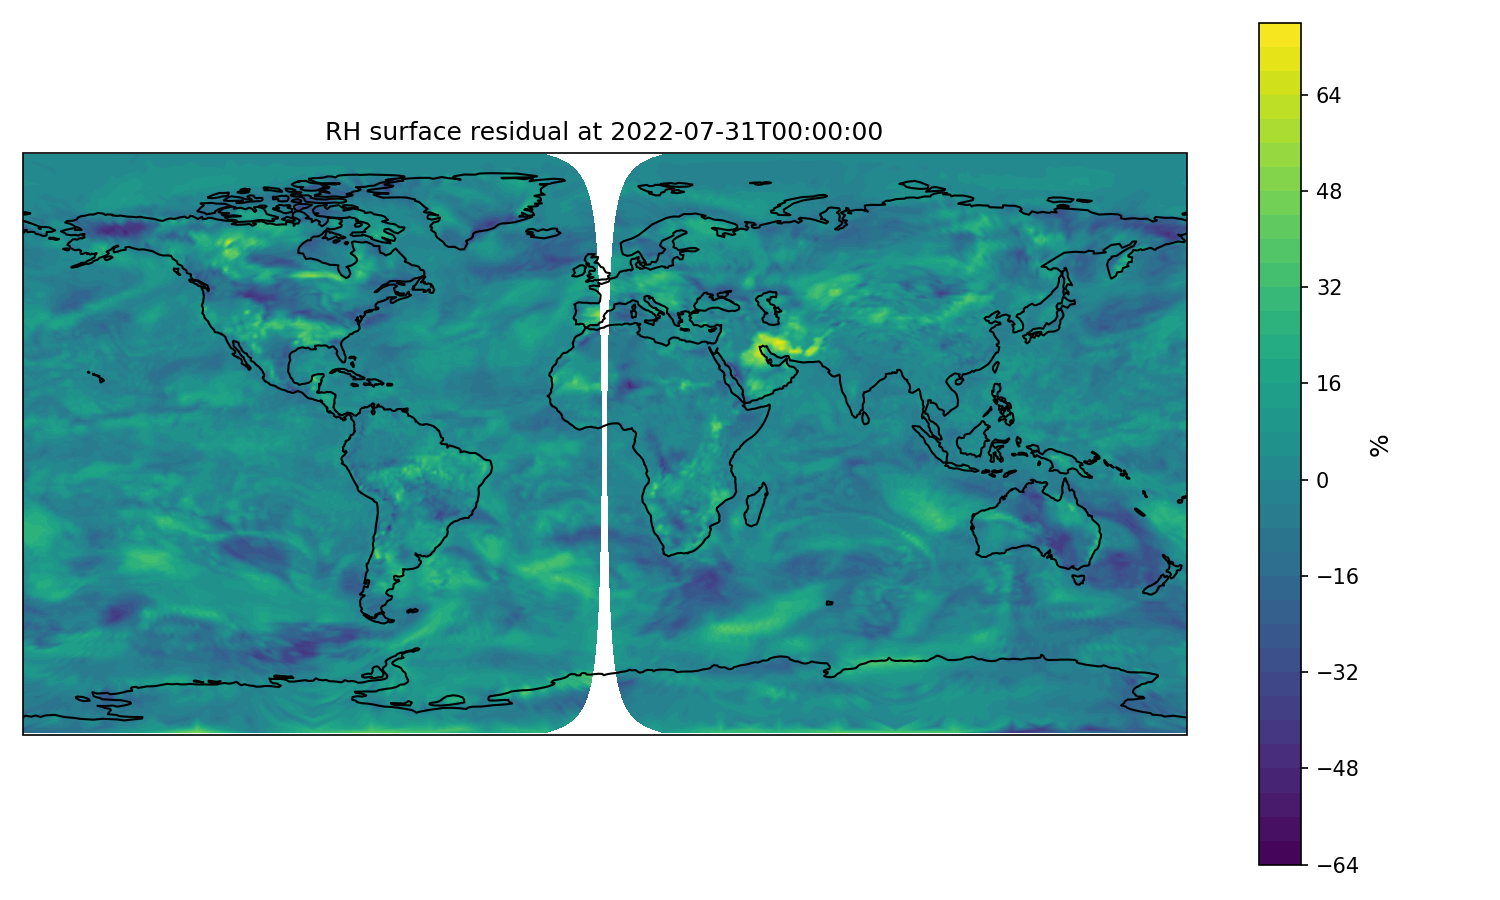
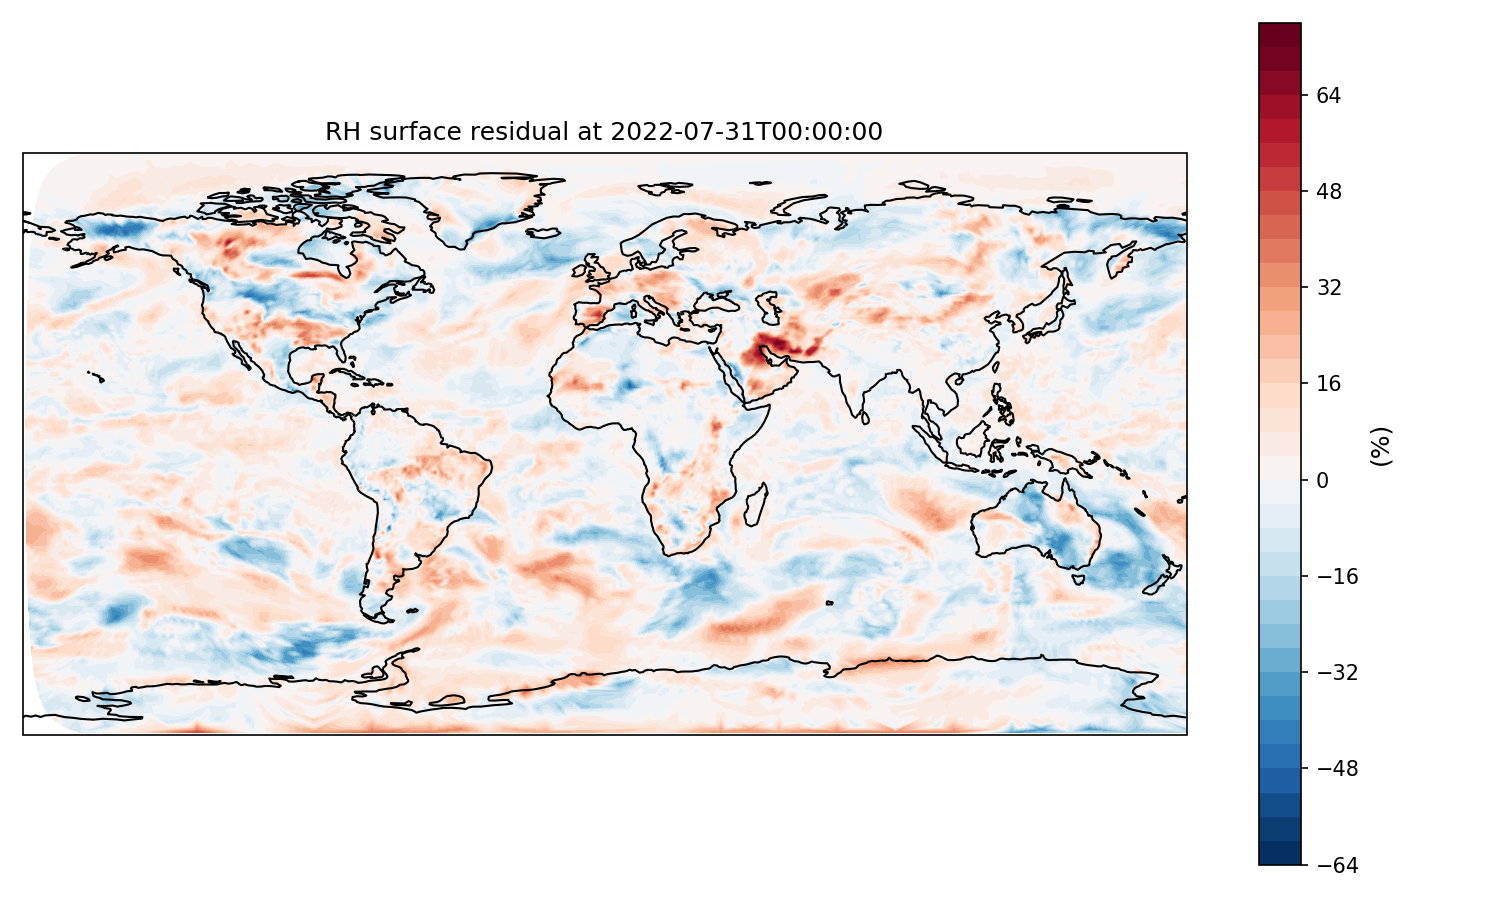
Bunch of new plots

diff --git a/Anemoi_S2S_experiment/python_scripts/benchmark_variables_dependency/benchmark_variables_dependency.py b/Anemoi_S2S_experiment/python_scripts/benchmark_variables_dependency/benchmark_variables_dependency.py
@@ -5,9 +5,11 @@ from scipy.spatial import cKDTree
 import earthkit.data as ekd 
 import cartopy.crs as ccrs
 import cartopy.feature as cfeature
+from plotting_functions import plot_surface_field
+from physics_functions import compute_r_sur, compute_rh_sur
 
 ##Paths
-inference_output_path = "/ec/res4/hpcperm/nld4584/output_inference/output_benchmark_july2022.nc"
+inference_output_path = "/ec/res4/hpcperm/nld4584/Anemoi_S2S_experiment/output_inference/output_benchmark_july2022.nc"
 dataset_path = "/home/mlx/ai-ml/datasets/aifs-ea-an-oper-0001-mars-o96-1979-2023-6h-v8.zarr"
 
 
@@ -23,7 +25,6 @@ var_names = ds_dataset.attrs["variables"]
 init_time = np.datetime64("2022-07-01T00:00")
 t0 = np.where(times == init_time)[0][0]
 ds_dataset_sliced = ds_dataset.isel(time = slice(t0, t0 + n_steps))
-
 
 
 
@@ -52,41 +53,36 @@ dp2m_inference_C = dp2m_inference - 273.15
 sp_dataset_hPa = sp_dataset / 100.0
 sp_inference_hPa = sp_inference / 100.0
 
+
+#plot all surface fields
+plot_surface_field(ds_dataset, t2m_dataset_C, 1, "2m Temperature Dataset (°C)", "°C", "t2m_dataset.png", colormap='coolwarm')
+plot_surface_field(ds_dataset, t2m_inference_C, 1, "2m Temperature Inference  (°C)", "°C", "t2m_inference.png", colormap='coolwarm')
+plot_surface_field(ds_dataset, dp2m_dataset_C, 1, "2m Dew Point Temperature Dataset (°C)", "°C", "dp2m_dataset.png", colormap='coolwarm')
+plot_surface_field(ds_dataset, dp2m_inference_C, 1, "2m Dew Point Temperature Inference (°C)", "°C", "dp2m_inference.png", colormap='coolwarm')
+plot_surface_field(ds_dataset, sp_dataset_hPa, 1, "Surface Pressure Dataset (hPa)", "hPa", "sp_dataset.png", colormap='winter')
+plot_surface_field(ds_dataset, sp_inference_hPa, 1, "Surface Pressure Inference (hPa)", "hPa", "sp_inference.png", colormap='winter')
+
 #compute rh and r
-
-def compute_r_sur(t2m, dp2m, sp):       #mixing ratio
-    e = np.where(                       #water vapor partial pressure, in hPa  
-    t2m >= 0.0,
-    6.107 * np.exp((17.368 * dp2m) / (dp2m + 238.83)),
-    6.108 * np.exp((17.856 * dp2m) / (dp2m + 245.52)),
-    )
-    r_sur = 622.0 * (e / (sp - e))
-    return r_sur
-
-def compute_rh_sur(t2m, dp2m):       #relative humidity
-    e = np.where(                   #water vapor partial pressure, in hPa  
-    t2m >= 0.0,
-    6.107 * np.exp((17.368 * dp2m) / (dp2m + 238.83)),
-    6.108 * np.exp((17.856 * dp2m) / (dp2m + 245.52)),
-    )
-    e_sat =  np.where(          #saturation water vapor, in hPa
-    t2m >= 0.0,
-    6.107 * np.exp((17.368 * t2m) / (t2m + 238.83)),
-    6.108 * np.exp((17.856 * t2m) / (t2m + 245.52)),
-    )
-    rh_sur = 100 * e/e_sat
-    return rh_sur
-
-r_sur_inference = compute_r_sur(t2m_inference_C, dp2m_inference_C, sp_inference_hPa)
+rh_sur_dataset = compute_rh_sur(t2m_dataset_C, dp2m_dataset_C)
 r_sur_dataset = compute_r_sur(t2m_dataset_C, dp2m_dataset_C, sp_dataset_hPa)
 
-rh_sur_inference = compute_rh_sur(t2m_inference_C,dp2m_inference_C)
-rh_sur_dataset = compute_rh_sur(t2m_dataset_C, dp2m_dataset_C)
+rh_sur_inference_clipped = compute_rh_sur(t2m_inference_C, dp2m_inference_C, clip_for_plot=True)
+rh_sur_inference = compute_rh_sur(t2m_inference_C, dp2m_inference_C, clip_for_plot=False)  
+r_sur_inference = compute_r_sur(t2m_inference_C, dp2m_inference_C, sp_inference_hPa)
+
+
+#plot rh and r
+plot_surface_field(ds_dataset, rh_sur_dataset, 120, "RH Dataset", "%", "rh_dataset.png")
+plot_surface_field(ds_dataset, rh_sur_inference, 120, "RH Inference", "%", "rh_inference.png")
+plot_surface_field(ds_dataset, rh_sur_inference_clipped, 120, "RH Inference (clipped)", "%", "rh_inference_clipped.png")
+plot_surface_field(ds_dataset, r_sur_dataset, 120, "r Dataset", "g/kg", "r_dataset.png")
+plot_surface_field(ds_dataset, r_sur_inference, 120, "r Inference", "g/kg", "r_inference.png")
 
 
 #compute residuals
 r_res_sur =  (r_sur_dataset - r_sur_inference)
 rh_res_sur = (rh_sur_dataset -rh_sur_inference)
+rh_res_sur_clipped = (rh_sur_dataset -rh_sur_inference_clipped)
 
 #sanity checks
 def sanity_check(name, arr):
@@ -119,54 +115,17 @@ sanity_check("r_res_sur", r_res_sur.values)
 sanity_check("rh_res_sur", rh_res_sur)
 
 #Plot surface residues
+plot_surface_field(ds_dataset, r_res_sur, 120, "r surface residual", "g/kg", "r_residue_last_time.png")
+plot_surface_field(ds_dataset, rh_res_sur, 120, "RH surface residual", "%", "rh_residue_last_time.png")
+plot_surface_field(ds_dataset, r_res_sur, 1, "r surface residual", "g/kg", "r_residue_first_time.png")
+plot_surface_field(ds_dataset, rh_res_sur, 1, "RH surface residual", "%", "rh_residue_first_time.png")
+plot_surface_field(ds_dataset, rh_res_sur_clipped, 120, "RH surface residual (clipped)", "%", "rh_residue_clipped_last_time.png")
+plot_surface_field(ds_dataset, rh_res_sur_clipped, 1, "RH surface residual (clipped)", "%", "rh_residue_clipped_first_time.png")
 
-def plot_surface_residues(r_res_sur, rh_res_sur, timestep):
-    lons = ds_dataset["longitudes"].values.ravel()
-    lats = ds_dataset["latitudes"].values.ravel()
-    date = ds_dataset.dates.isel(time = (t0+ timestep)).values
-
-    r_plot = r_res_sur.isel(time=timestep).values.ravel()
-    rh_plot = rh_res_sur[timestep].ravel() 
-    
-    # remove duplicates
-    #coords = np.column_stack((lons, lats))
-    #_, idx_unique = np.unique(coords, axis=0, return_index=True)
-    #lons, lats, r_plot, rh_plot = lons[idx_unique], lats[idx_unique], r_plot[idx_unique], rh_plot[idx_unique]
-
-    # remove NaNs/infs
-    mask = np.isfinite(lons) & np.isfinite(lats) & np.isfinite(r_plot) & np.isfinite(rh_plot)
-    lons, lats, r_plot, rh_plot = lons[mask], lats[mask], r_plot[mask], rh_plot[mask]
-
-    proj = ccrs.PlateCarree()
 
     
-    # --- r residuals ---
-    fig = plt.figure(figsize=(10, 6))
-    ax = plt.axes(projection=ccrs.PlateCarree())
-    ax.set_global()
-    cf = ax.tricontourf(lons, lats, r_plot, 40, transform=proj)
-    ax.add_feature(cfeature.COASTLINE)
-    ax.set_title(f"r surface residual at {str(date)[:19]}")
-    cbar = plt.colorbar(cf, ax=ax, pad=0.05)
-    cbar.set_label("(g/kg)", fontsize=12)
-    plt.tight_layout()
-    plt.savefig("/ec/res4/hpcperm/nld4584/python_scripts/benchmark_variables_dependency/images/r_residue", dpi =150)
-
-    # --- RH residuals ---
-    fig = plt.figure(figsize=(10, 6))
-    ax = plt.axes(projection=ccrs.PlateCarree())
-    cf = ax.tricontourf(lons, lats, rh_plot, 40, transform=proj)
-    ax.set_global()
-    ax.add_feature(cfeature.COASTLINE)
-    ax.set_title(f"RH surface residual at {str(date)[:19]}")
-    cbar = plt.colorbar(cf, ax=ax, pad=0.05)
-    cbar.set_label("%", fontsize=12)
-    plt.tight_layout()
-    plt.savefig("/ec/res4/hpcperm/nld4584/python_scripts/benchmark_variables_dependency/images/rh_residue", dpi =150)
-    plt.close()
     
-    
-plot_surface_residues(r_res_sur, rh_res_sur, 120)
+##################################################################################################################################################################
 
 
 
@@ -373,5 +332,4 @@ def plot_rmse_time(rmse_r, rmse_rh, savename, times=None, title="RMSE over time"
     
 plot_rmse_time(rmse_r_sur, rmse_rh_sur, "rmse_sur", times=np.arange(121), title="Surface RMSE")
 plot_rmse_time(rmse_r_3D, rmse_rh_3D, "rmse_3D", times = np.arange(121), title = "Global RMSE")
-
 

diff --git a/Anemoi_S2S_experiment/python_scripts/benchmark_variables_dependency/physics_functions.py b/Anemoi_S2S_experiment/python_scripts/benchmark_variables_dependency/physics_functions.py
@@ -1,0 +1,114 @@
+import xarray as xr
+import numpy as np
+from matplotlib import pyplot as plt
+from matplotlib.colors import TwoSlopeNorm, Normalize
+from scipy.spatial import cKDTree
+import earthkit.data as ekd 
+import cartopy.crs as ccrs
+import cartopy.feature as cfeature
+
+
+def compute_r_sur(t2m, dp2m, sp):
+    """
+    Compute water-vapor mixing ratio at the surface (g/kg).
+
+    Parameters:
+    -----------
+    t2m : array-like or xr.DataArray
+        Temperature in Celsius
+    dp2m : array-like or xr.DataArray
+        Dew point temperature in Celsius
+    sp : array-like or xr.DataArray
+        Surface pressure in hPa
+
+    Returns:
+    --------
+    r_sur : array-like or xr.DataArray
+        Mixing ratio in g/kg. Same type as input (numpy array or DataArray).
+        If input is DataArray, output preserves coordinates and dimensions.
+    """
+    # Detect if inputs are xarray.DataArray
+    is_xarray = isinstance(t2m, xr.DataArray)
+    
+    # Work with numpy arrays internally
+    t2m_np = t2m.values if is_xarray else t2m
+    dp2m_np = dp2m.values if is_xarray else dp2m
+    sp_np = sp.values if is_xarray else sp
+    
+    # water vapor partial pressure (hPa) using Magnus formula
+    e = np.where(
+        t2m_np >= 0.0,
+        6.107 * np.exp((17.368 * dp2m_np) / (dp2m_np + 238.83)),
+        6.108 * np.exp((17.856 * dp2m_np) / (dp2m_np + 245.52)),
+    )
+    # Avoid division by zero: ensure sp > e
+    e = np.maximum(e, 0.0)
+    sp_np = np.maximum(sp_np, 1e-6)
+    denom = sp_np - e
+    denom = np.where(denom > 0, denom, np.nan)
+    r_sur_np = 622.0 * (e / denom)
+    
+    # Return as xarray.DataArray if input was DataArray
+    if is_xarray:
+        r_sur = xr.DataArray(r_sur_np, coords=t2m.coords, dims=t2m.dims, name='r_sur')
+        return r_sur
+    else:
+        return r_sur_np
+
+def compute_rh_sur(t2m, dp2m, clip_for_plot=False):
+    """
+    Compute relative humidity at the surface (%).
+
+    Parameters:
+    -----------
+    t2m : array-like or xr.DataArray
+        Temperature in Celsius
+    dp2m : array-like or xr.DataArray
+        Dew point temperature in Celsius
+    clip_for_plot : bool, default False
+        If True, clip RH to [0, 100] for visualization only.
+        If False (default), return raw RH which may exceed 100% due to
+        numerical noise; use this for loss functions and residuals.
+
+    Returns:
+    --------
+    rh_sur : array-like or xr.DataArray
+        Relative humidity in percent (%).
+        Raw values (can be > 100%) if clip_for_plot=False,
+        clipped to [0, 100] if clip_for_plot=True.
+        Same type as input (numpy array or DataArray).
+        If input is DataArray, output preserves coordinates and dimensions.
+    """
+    # Detect if inputs are xarray.DataArray
+    is_xarray = isinstance(t2m, xr.DataArray)
+    
+    # Work with numpy arrays internally
+    t2m_np = t2m.values if is_xarray else t2m
+    dp2m_np = dp2m.values if is_xarray else dp2m
+    
+    # water vapor partial pressure (hPa)
+    e = np.where(
+        t2m_np >= 0.0,
+        6.107 * np.exp((17.368 * dp2m_np) / (dp2m_np + 238.83)),
+        6.108 * np.exp((17.856 * dp2m_np) / (dp2m_np + 245.52)),
+    )
+    # saturation water vapor pressure (hPa)
+    e_sat = np.where(
+        t2m_np >= 0.0,
+        6.107 * np.exp((17.368 * t2m_np) / (t2m_np + 238.83)),
+        6.108 * np.exp((17.856 * t2m_np) / (t2m_np + 245.52)),
+    )
+    # Avoid division by zero
+    e = np.maximum(e, 0.0)
+    e_sat = np.maximum(e_sat, 1e-12)
+    rh_sur_np = 100.0 * e / e_sat
+    
+    if clip_for_plot:
+        rh_sur_np = np.clip(rh_sur_np, 0.0, 100.0)
+    
+    # Return as xarray.DataArray if input was DataArray
+    if is_xarray:
+        rh_sur = xr.DataArray(rh_sur_np, coords=t2m.coords, dims=t2m.dims, name='rh_sur')
+        return rh_sur
+    else:
+        return rh_sur_np

diff --git a/Anemoi_S2S_experiment/python_scripts/benchmark_variables_dependency/plotting_functions.py b/Anemoi_S2S_experiment/python_scripts/benchmark_variables_dependency/plotting_functions.py
@@ -1,0 +1,64 @@
+import xarray as xr
+import numpy as np
+from matplotlib import pyplot as plt
+from matplotlib.colors import TwoSlopeNorm, Normalize
+from scipy.spatial import cKDTree
+import earthkit.data as ekd 
+import cartopy.crs as ccrs
+import cartopy.feature as cfeature
+
+def plot_surface_field(ds_dataset, sur_field, timestep, title, unit, savename, colormap='RdBu_r'):
+    lons = ds_dataset["longitudes"].values.ravel()
+    lats = ds_dataset["latitudes"].values.ravel()
+    
+    times = ds_dataset.dates.values
+    init_time = np.datetime64("2022-07-01T00:00")
+    t0 = np.where(times == init_time)[0][0]
+    
+    date = ds_dataset.dates.isel(time = (t0+ timestep)).values
+
+    field_plot = sur_field.isel(time=timestep).values.ravel()
+    
+    
+    # remove NaNs/infs
+    mask = np.isfinite(lons) & np.isfinite(lats) & np.isfinite(field_plot)
+    lons, lats, field_plot = lons[mask], lats[mask], field_plot[mask]
+    # Handle antimeridian: convert from 0-360 to -180 to 180 to avoid white band at 0 longitude
+    lons = np.where(lons > 180, lons - 360, lons)
+
+    proj = ccrs.PlateCarree()
+    
+    # Choose normalization and colormap safely.
+    # TwoSlopeNorm requires vmin < vcenter < vmax. For fields that don't
+    # cross zero (e.g., surface pressure), fall back to a linear Normalize
+    # and use a suitable sequential colormap to avoid the ValueError.
+    vmin, vmax = np.min(field_plot), np.max(field_plot)
+    if vmin < 0 < vmax:
+        norm = TwoSlopeNorm(vmin=vmin, vcenter=0, vmax=vmax)
+        cmap_use = colormap
+    else:
+        norm = Normalize(vmin=vmin, vmax=vmax)
+        # Pick a sensible sequential colormap when data are all positive
+        # or all negative to avoid misleading diverging maps.
+        if vmin >= 0:
+            cmap_use = 'winter'
+        elif vmax <= 0:
+            cmap_use = 'Blues_r'
+        else:
+            cmap_use = colormap
+
+    fig = plt.figure(figsize=(10, 6))
+    ax = plt.axes(projection=ccrs.PlateCarree())
+    ax.set_global()
+    cf = ax.tricontourf(lons, lats, field_plot, 40, transform=proj, norm=norm, cmap=cmap_use)
+    ax.add_feature(cfeature.COASTLINE)
+    ax.set_title(f"{title} at {str(date)[:19]}")
+    cbar = plt.colorbar(cf, ax=ax, pad=0.05)
+    cbar.set_label(f"({unit})", fontsize=12)
+    plt.tight_layout()
+    plt.savefig(f"images/{savename}", dpi =150)
+    plt.close()
+    
+   
+    
+    
